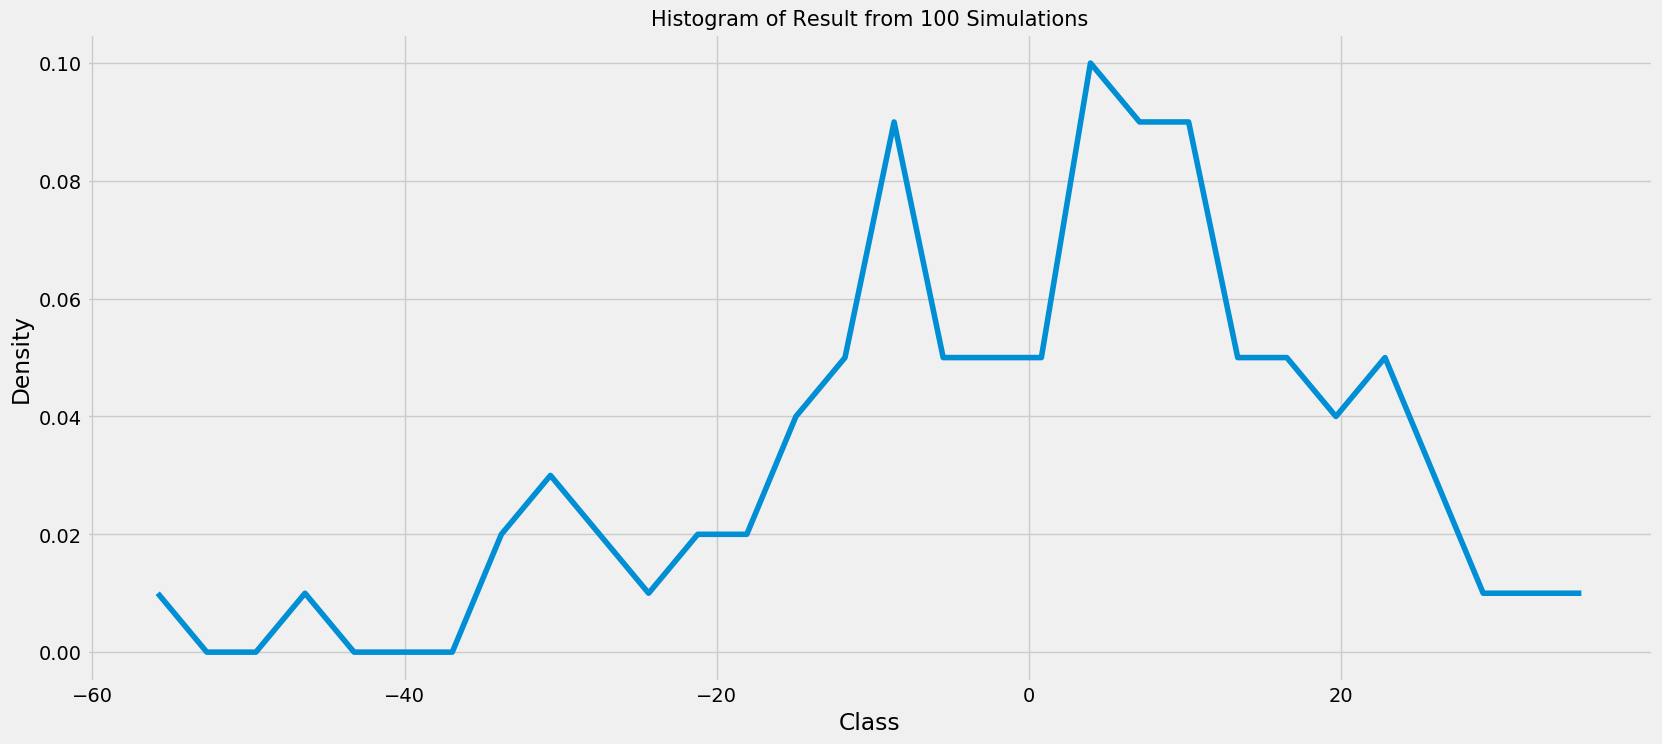
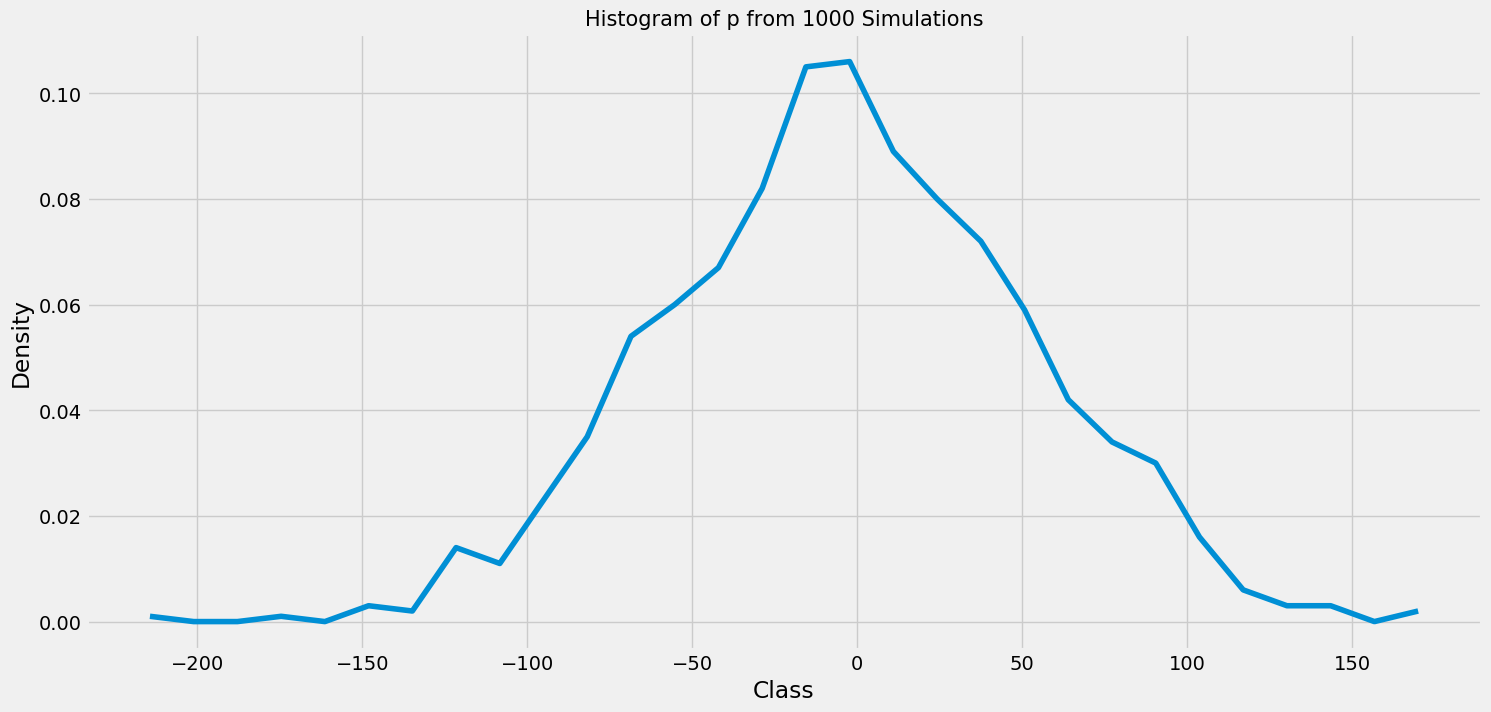
update

diff --git a/visualize.py b/visualize.py
@@ -7,19 +7,20 @@ from matplotlib import pyplot as plt
 import logging
 
 
-def hist(list_result, num_bin, name_fig, whe_show=False):
+def hist(list_result, num_bin, str_var, name_fig, whe_show=False):
     array_density, array_edge = np.histogram(list_result, bins=num_bin, density=True)
     len_edge = array_edge[1] - array_edge[0]
     list_density = [i * len_edge for i in array_density.tolist()]
+    print("sum(list_density) = {} ;".format(sum(list_density)))
     list_position = array_edge[0: (len(array_edge) - 1)]
     list_position = [i + len_edge / 2 for i in list_position]
-    n_sample = len(list_result)
+    n_sim = len(list_result)
     fig = plt.figure(figsize=(18, 8))
     plt.style.use("fivethirtyeight")
     plt.plot(list_position, list_density)
     plt.xlabel('Class')
     plt.ylabel('Density')
-    plt.title('Histogram of Result from {} Simulations'.format(n_sample), fontsize=15)
+    plt.title('Histogram of {} from {} Simulations'.format(str_var, n_sim), fontsize=15)
     if whe_show:  # Whether to show the plot
         plt.show()
     fig.savefig('images/' + name_fig + '.png', bbox_inches='tight')

diff --git a/setup.py b/setup.py
@@ -19,9 +19,9 @@ def task1():
     mu = 1
     sigma = 1
     lamb = 1
-    n_sample = 100
+    n_sample = 1000
     func_dist_y = select_dist(lamb)
-    n_sim = 100
+    n_sim = 1000
     list_p_result = [0] * n_sim
     list_a_result = [0] * n_sim
     list_m_result = [0] * n_sim
@@ -30,9 +30,9 @@ def task1():
         list_p_result[i] = list_result[0]
         list_a_result[i] = list_result[1]
         list_m_result[i] = list_result[2]
-    vi.hist(list_p_result, 30, '1')
-    vi.hist(list_a_result, 30, '2')
-    vi.hist(list_m_result, 30, '3')
+    vi.hist(list_p_result, 30, 'p', '1')
+    vi.hist(list_a_result, 30, 'a', '2')
+    vi.hist(list_m_result, 30, 'm', '3')
     return list_p_result, list_a_result, list_m_result
 
 
@@ -50,7 +50,7 @@ def test():
     # print("m = {}".format(list_result[2]))
 
 
-test()
-# list_p_result, list_a_result, list_m_result = task1()
+# test()
+list_p_result, list_a_result, list_m_result = task1()
 
 
